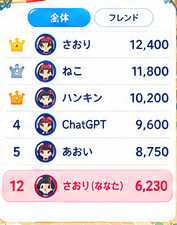
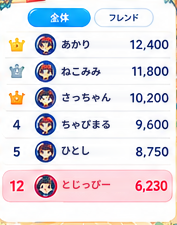
docs: replace sample names in ranking artwork and preview data
Ranking sample names are now あかり, ねこみみ, さっちゃん, ちゃぴまる, ひとし and とじっぴー
in the reference sheets, ranking crops, contact sheet, the published 07-ranking
screen and the participant preview fixture.

diff --git a/apps/cloud/app/participant/ParticipantGame.tsx b/apps/cloud/app/participant/ParticipantGame.tsx
@@ -42,14 +42,14 @@ const eventVoice: Partial<Record<ParticipantSoundName, { path: string; delay: nu
 const fixture: GameState = {
   room: { id: 'preview', name: '秋の大運動会' }, mode: 'ai', serverTime: Date.now(),
   lobby: { status: 'started' },
-  players: [{ id: 'me', name: 'まえ', joinedAt: Date.now() - 50000 }],
+  players: [{ id: 'me', name: 'とじっぴー', joinedAt: Date.now() - 50000 }],
   ranks: [
-    { id: 'a', name: 'さおり', joinedAt: 1, wins: 3 },
-    { id: 'b', name: 'ねこ', joinedAt: 2, wins: 2 },
-    { id: 'c', name: 'ハナキン', joinedAt: 3, wins: 2 },
-    { id: 'd', name: 'ChatGPT', joinedAt: 4, wins: 1 },
-    { id: 'e', name: 'あおい', joinedAt: 5, wins: 1 },
-    { id: 'me', name: 'まえ', joinedAt: 6, wins: 1 },
+    { id: 'a', name: 'あかり', joinedAt: 1, wins: 3 },
+    { id: 'b', name: 'ねこみみ', joinedAt: 2, wins: 2 },
+    { id: 'c', name: 'さっちゃん', joinedAt: 3, wins: 2 },
+    { id: 'd', name: 'ちゃぴまる', joinedAt: 4, wins: 1 },
+    { id: 'e', name: 'ひとし', joinedAt: 5, wins: 1 },
+    { id: 'me', name: 'とじっぴー', joinedAt: 6, wins: 1 },
   ],
   round: { id: 'sample', number: 1, mode: 'ai', status: 'active', challenge: { title: '赤くて丸いものを探せ！', description: '会場で見つけて写真を撮ろう。' }, startedAt: Date.now(), endsAt: Date.now() + 30000 },
   mine: [], stats: { players: 6, answered: 3, accepted: 3, pending: 0 },

diff --git a/docs/design/sports-day-ui-assets-v1/README.md b/docs/design/sports-day-ui-assets-v1/README.md
@@ -9,7 +9,7 @@ ZIPを展開して `index.html` をブラウザーで開いてください。外
 - `contact-sheet.png`：136点の全素材一覧。
 - `asset-list.csv`：素材名、画像寸法、透過の有無、ファイルパス、注意事項。
 - `manifest.json`：実装向け一覧。元画像上の出典矩形・トリミング座標も収録。
-- `99-reference/original-sheet.png`：元の画像。変更していません。
+- `99-reference/original-sheet.png`：元の画像。ランキング見本の名前だけ差し替えています（2026-10-20）。
 
 ## 収録内容
 
